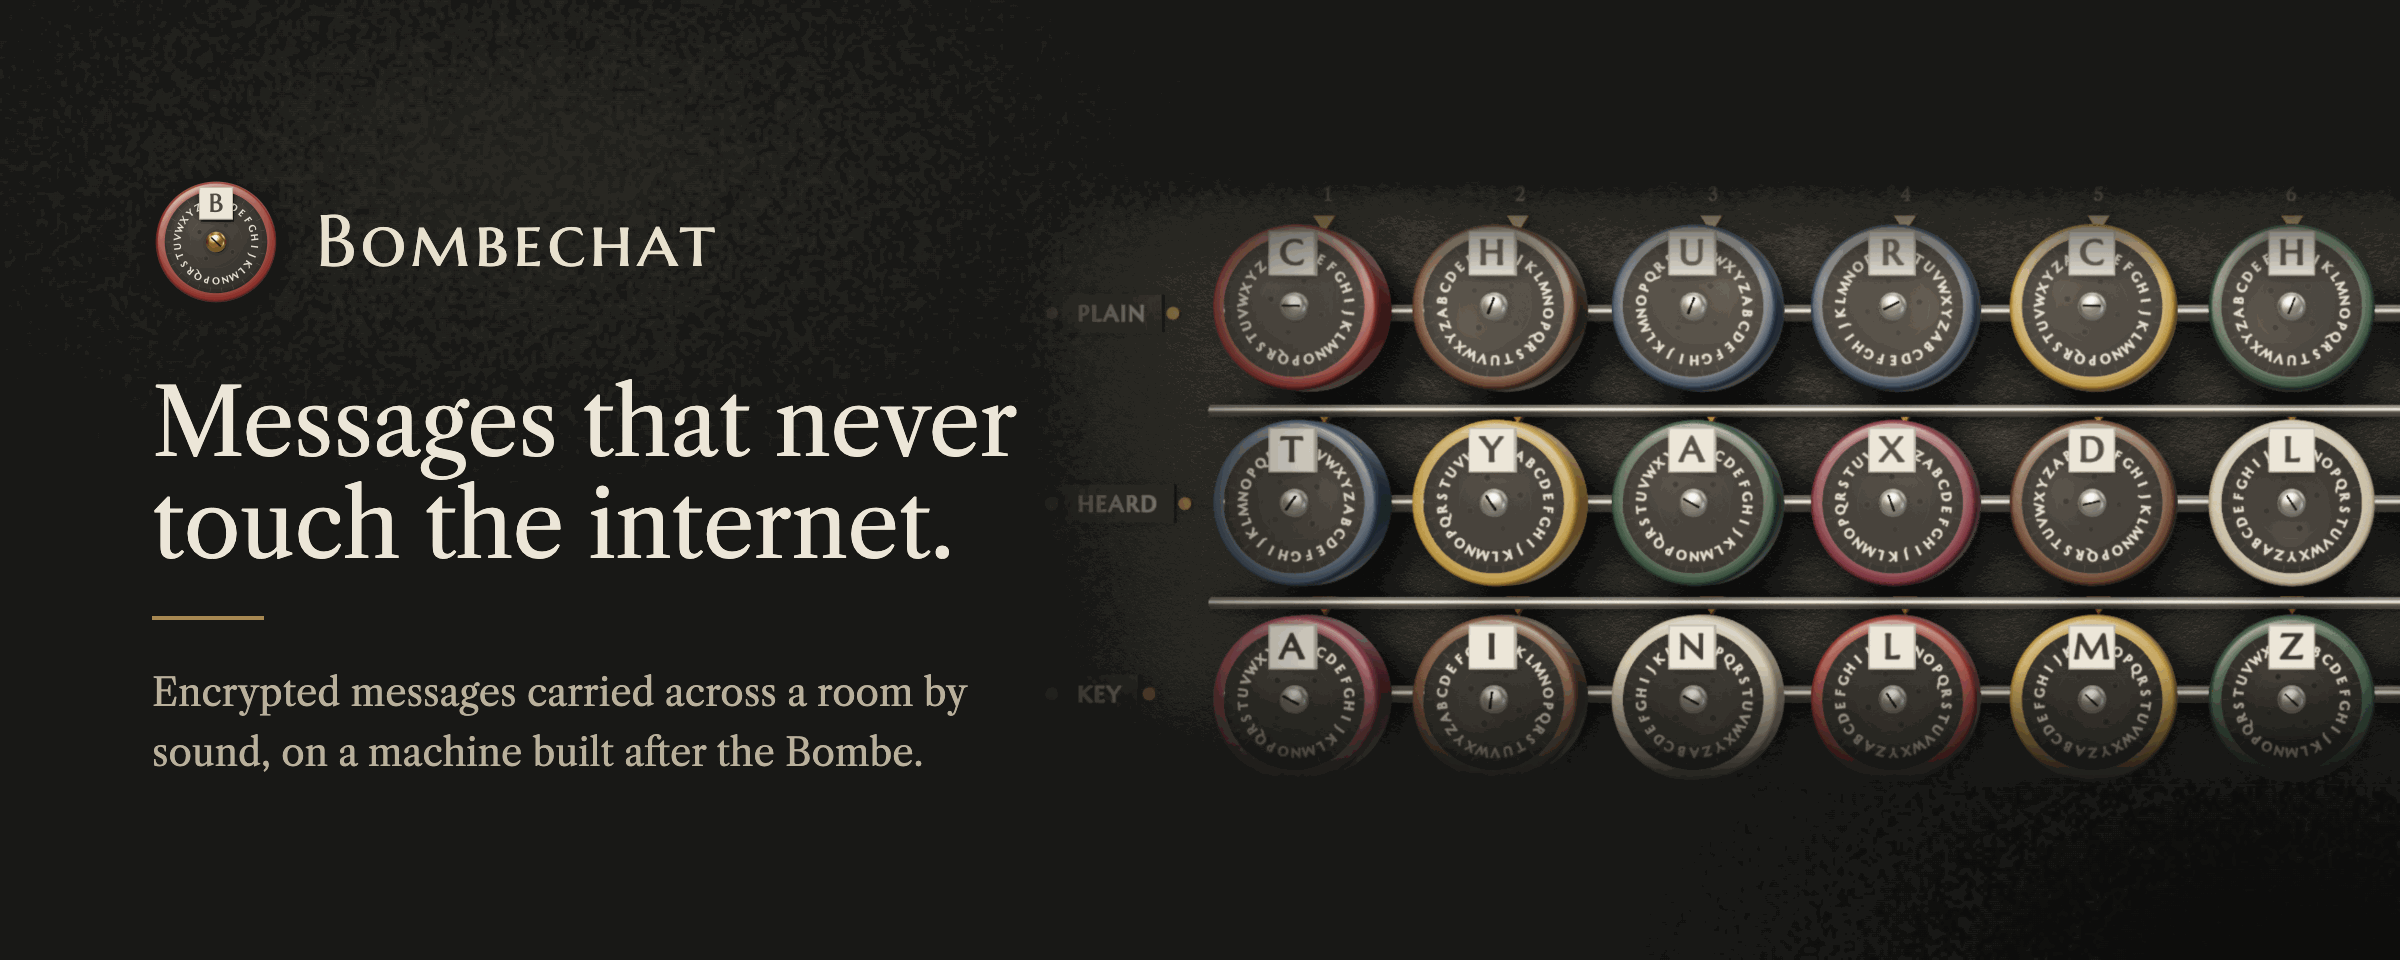
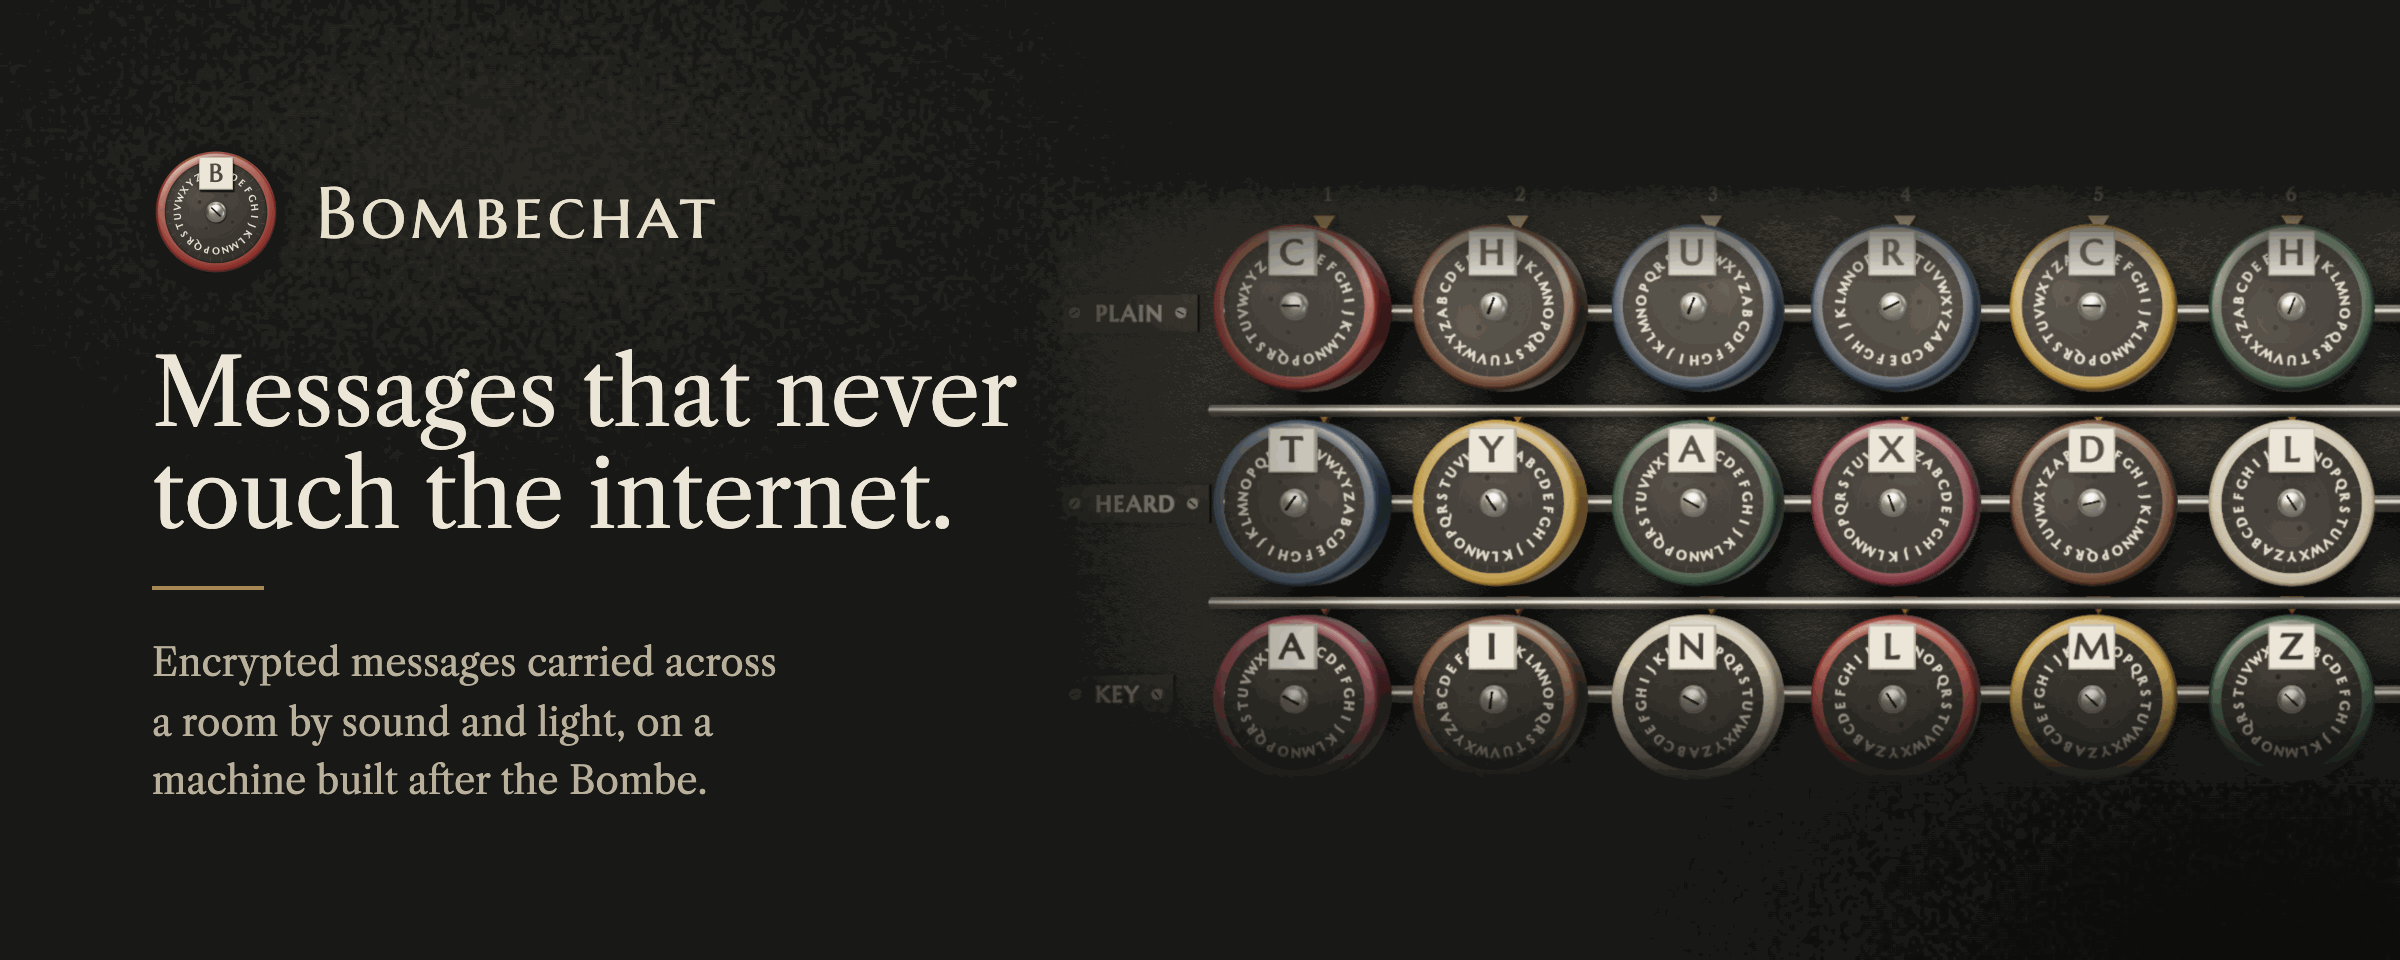
media: the light channel, a still of the flashing view and a clip of a send
tools/media.cjs light renders the signal lamp mid-message and a clip of
a reply going out by Flash at Normal, stepped on the page's clock so the
code changes at its real ten frames a second. The banner says sound and
light.

diff --git a/tools/media/banner.html b/tools/media/banner.html
@@ -24,7 +24,7 @@ body{width:1200px;height:480px;overflow:hidden;position:relative;background:#141
 .mark img{width:64px;height:64px;filter:drop-shadow(0 3px 5px rgba(0,0,0,.6))}
 .mark span{font-family:'Marcellus SC',serif;font-size:36px;letter-spacing:.06em;color:#e9e2cf}
 h1{margin:0 0 20px;font-weight:400;font-size:46px;line-height:1.1;letter-spacing:-.005em;color:#efe8d6}
-p{margin:0;font-size:19px;line-height:1.55;color:#b9b19c;max-width:445px}
+p{margin:0;font-size:19px;line-height:1.55;color:#b9b19c;max-width:445px;text-wrap:balance}
 .rule{width:56px;height:2px;background:#c29a5c;margin:0 0 22px;opacity:.85}
 </style>
 </head>
@@ -35,7 +35,7 @@ p{margin:0;font-size:19px;line-height:1.55;color:#b9b19c;max-width:445px}
   <div class="mark"><img src="/docs/media/logo.png" alt=""><span>Bombechat</span></div>
   <h1>Messages that never touch the internet.</h1>
   <div class="rule"></div>
-  <p>Encrypted messages carried across a room by sound, on a machine built after the Bombe.</p>
+  <p>Encrypted messages carried across a room by sound and light, on a machine built after the Bombe.</p>
 </div>
 <script>
 const k=document.getElementById('n').getContext('2d'),id=k.createImageData(600,240);
